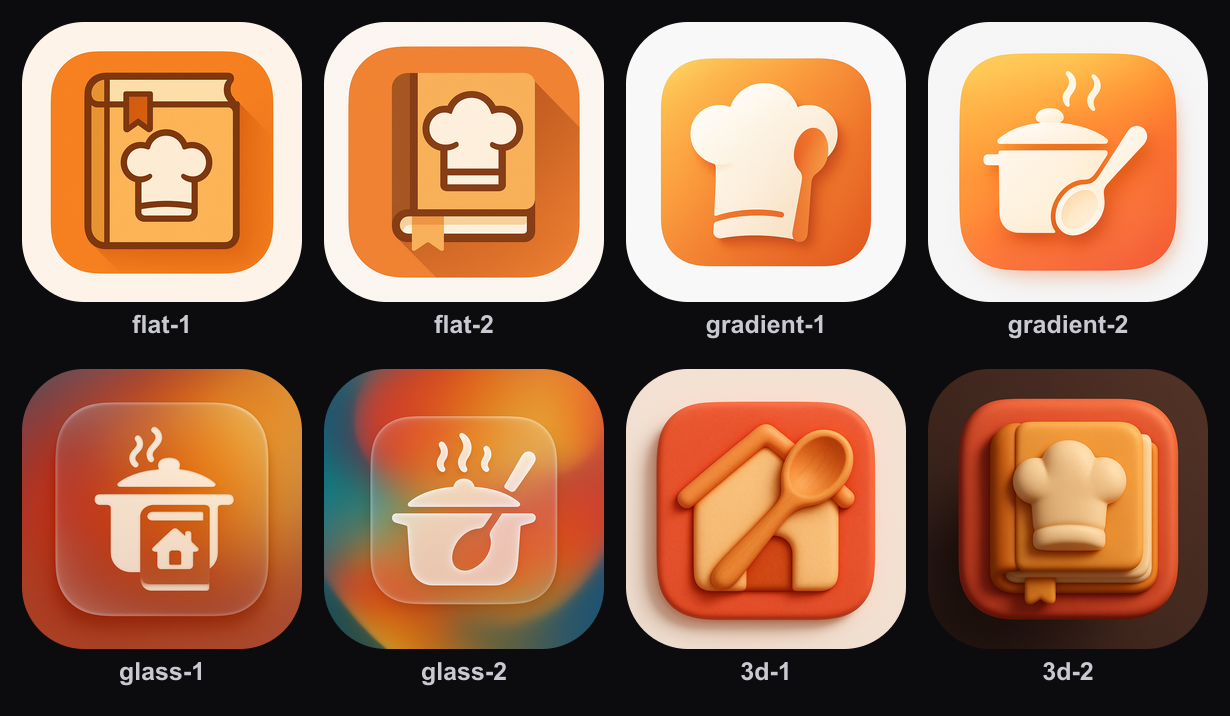
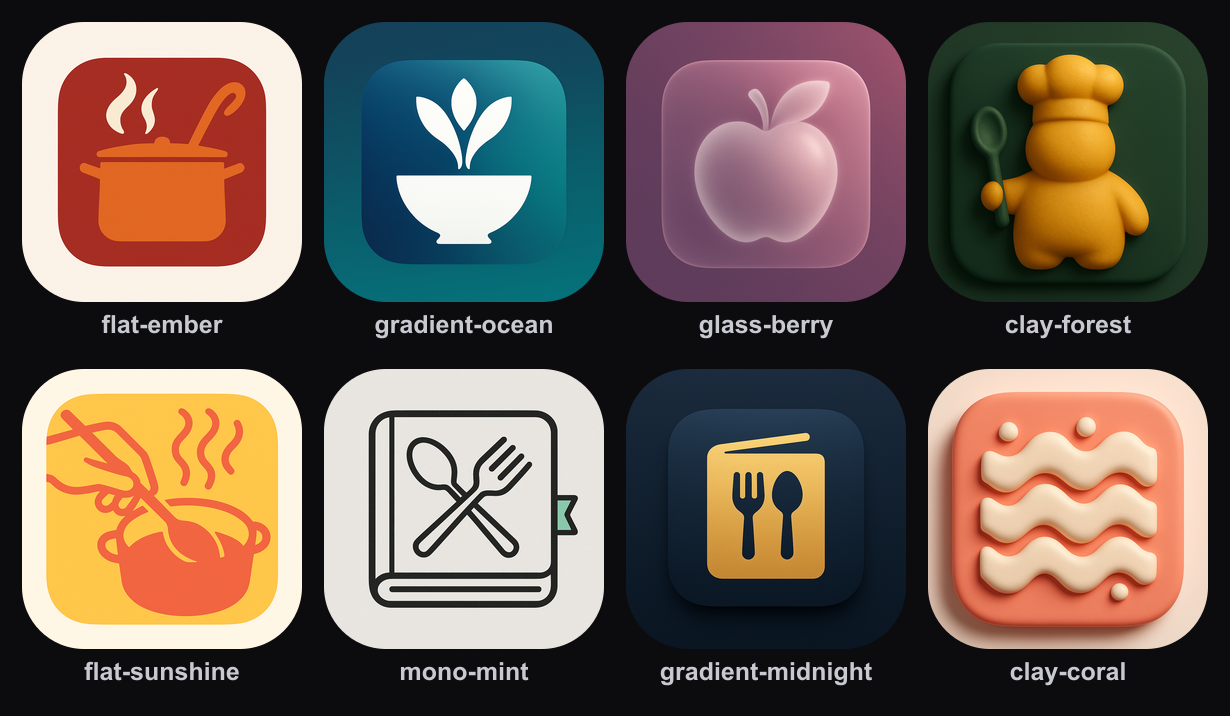
Vraie diversite : couleur + motif differents par variation
Avant : 4 "styles" (flat/gradient/glass/3d) redessinaient le MEME motif
et souvent la meme couleur (l'IA convergeait vers "livre de recette
orange" a chaque fois) -> peu de vrai choix.

Maintenant : 8 variations predefinies, chacune avec sa PROPRE palette de
couleur imposee ET son PROPRE angle creatif impose (objet litteral,
emblème abstrait, mascotte, silhouette, texture...). Le rendu (flat/
gradient/glass/clay) reste un axe mais n'est plus le seul qui varie.

- generate-icon.mjs : remplace STYLE_HINTS/--style par VARIATIONS
  (render+color+angle), --n = nombre total (cycle sur la liste),
  --only <label> pour une variation precise, --list pour les voir.
- README + skill + commande /icon + exemples mis a jour avec le
  nouveau rendu teste en live (8 icones vraiment differentes).

diff --git a/README.md b/README.md
@@ -1,8 +1,8 @@
 # ios-icon-generator 🎨
 
-**Génère des propositions d'icône d'app iOS à partir d'une simple description, via l'API OpenAI (`gpt-image-1`) — dans plusieurs styles, avec une planche-contact automatique.**
+**Génère des propositions d'icône d'app iOS à partir d'une simple description, via l'API OpenAI (`gpt-image-1`) — 8 couleurs ET 8 motifs vraiment différents, avec une planche-contact automatique.**
 
-Pas de mockup, pas de Photoshop, pas de designer à payer : une phrase en langage naturel entre, une image unique avec **toutes les propositions côte à côte** sort. Zéro dépendance pour la génération (Node 18+ suffit), une seule dépendance optionnelle (`sharp`) pour la planche-contact.
+Pas de mockup, pas de Photoshop, pas de designer à payer : une phrase en langage naturel entre, une image unique avec **8 propositions réellement distinctes** sort — pas 8 fois le même dessin redessiné dans un style différent. Zéro dépendance pour la génération (Node 18+ suffit), une seule dépendance optionnelle (`sharp`) pour la planche-contact.
 
 Disponible en **script CLI autonome** *et* en **skill/commande Claude Code** (`/icon`).
 
@@ -11,16 +11,16 @@ Disponible en **script CLI autonome** *et* en **skill/commande Claude Code** (`/
 ## Exemple réel — testé en live
 
 Prompt donné : `"app mobile de recettes de cuisine maison, chaleureuse et simple"`.
-Commande : `node scripts/generate-icon.mjs --prompt "..."` — par défaut, ça couvre **4 styles** (`flat`, `gradient`, `glass`, `3d`), 2 propositions chacun.
+Commande : `node scripts/generate-icon.mjs --prompt "..."` (aucun autre flag — 8 variations prédéfinies, chacune avec **sa propre palette de couleur ET son propre motif**).
 
 <p align="center">
-  <img src="examples/collage.png" width="720" alt="Planche-contact des 8 icônes générées">
+  <img src="examples/collage.png" width="720" alt="Planche-contact de 8 icônes vraiment différentes">
 </p>
 
-8 icônes, 4 styles, **une seule commande**, assemblées automatiquement en une seule image. Zoom sur une proposition :
+Marmite qui fume, bol + plante, pomme translucide, mascotte cuisinier, geste de cuisson, carnet + couverts, livre stylisé, texture de pâte — **8 idées différentes**, 8 palettes différentes, en une seule commande. Zoom sur une proposition :
 
 <p align="center">
-  <img src="examples/closeup-flat-1.png" width="180" alt="Gros plan sur une icône générée">
+  <img src="examples/closeup-clay-coral.png" width="180" alt="Gros plan sur une icône générée">
 </p>
 
 C'est exactement ce que produit le script — pas une maquette, un vrai appel à `gpt-image-1`.
@@ -62,28 +62,42 @@ node scripts/generate-icon.mjs --prompt "app de suivi de sport, énergique, bleu
 ```
 
 Ça écrit dans `./icons/` :
-- une icône PNG par style/proposition (`flat-1.png`, `gradient-2.png`, …)
+- une icône PNG par variation (`flat-ember.png`, `gradient-ocean.png`, …)
 - **`collage.png`** — toutes les propositions assemblées en une seule image, labellisées
 - `contact-sheet.html` — la même chose en HTML, à ouvrir dans un navigateur
+
+### Les 8 variations (couleur + motif, pas juste un style de rendu)
+
+| Label | Palette | Motif demandé à l'IA |
+|---|---|---|
+| `flat-ember` | rouge braise / orange brûlé | l'outil le plus emblématique de l'app, dessiné littéralement |
+| `gradient-ocean` | bleu océan → turquoise | un emblème géométrique abstrait qui capture le *ressenti* de l'app |
+| `glass-berry` | violet baie / rose | un motif inspiré de la nature lié au thème de l'app |
+| `clay-forest` | vert forêt / or moutarde | une mascotte simplifiée représentant l'app |
+| `flat-sunshine` | jaune soleil / corail | l'action centrale de l'app, comme symbole dynamique |
+| `mono-mint` | noir & blanc + accent menthe | un objet du quotidien réinterprété de façon inattendue |
+| `gradient-midnight` | bleu nuit / or | une silhouette forte représentant la valeur cœur de l'app |
+| `clay-coral` | corail / crème | un motif ou une texture abstraite liée au thème |
 
 ### Options
 
 | Flag | Défaut | Description |
 |---|---|---|
 | `--prompt`, `-p` | *(obligatoire)* | Description de l'app en langage naturel |
-| `--style` | `all` | `flat` \| `gradient` \| `glass` \| `3d` \| `all` (les 4) |
-| `--n` | `2` | Nombre de propositions **par style** |
+| `--n` | `8` | Nombre total d'icônes (cycle sur les 8 variations) |
+| `--only <label>` | — | Une seule variation précise (voir `--list`) |
+| `--list` | — | Affiche les 8 variations disponibles et quitte |
 | `--out` | `./icons` | Dossier de sortie |
 | `--size` | `1024x1024` | Taille de l'image |
 | `--quality` | `high` | `high` \| `medium` \| `low` |
 | `--no-collage` | — | Saute la planche-contact PNG (juste les icônes + le HTML) |
 
 ```bash
-# Un seul style, plus de variations
-node scripts/generate-icon.mjs --prompt "app de méditation, apaisante, violet" --style glass --n 4
+# Juste 3 icônes (les 3 premières variations de la liste)
+node scripts/generate-icon.mjs --prompt "app de méditation, apaisante" --n 3
 
-# Génération rapide/économique (1 seule image)
-node scripts/generate-icon.mjs --prompt "app de finance perso, sérieuse, vert" --style flat --n 1 --quality medium
+# Une seule variation précise, en qualité réduite (rapide/économique)
+node scripts/generate-icon.mjs --prompt "app de finance perso, sérieuse" --only mono-mint --quality medium
 ```
 
 ### Juste refaire le collage (sur un dossier d'icônes existant)
@@ -120,9 +134,12 @@ node generate-assets.mjs icon --src ./icons/flat-1.png --out ./assets/images
 
 - **`POST /v1/images/generations`**, modèle `gpt-image-1`, `background: "opaque"` forcé
   (Apple **refuse** la transparence sur l'icône App Store).
-- **Le prompt réel envoyé à l'IA** n'est pas ta phrase brute : il est enrichi en un vrai
-  brief de designer (composition carrée, un seul motif centré, **aucun texte/lettre**,
-  couleurs franches, lisible en petit) — voir `buildPrompt()` dans
+- **Le prompt réel envoyé à l'IA** n'est pas ta phrase brute : chaque variation lui ajoute
+  une **palette de couleur imposée** et un **angle créatif imposé** (quel motif dessiner —
+  objet littéral, emblème abstrait, mascotte, silhouette…), en plus des règles de base
+  (composition carrée, un seul motif centré, **aucun texte/lettre**, lisible en petit).
+  C'est ce qui évite le piège du « même dessin, juste redessiné dans un style différent » —
+  voir `VARIATIONS` et `buildPrompt()` dans
   [`scripts/generate-icon.mjs`](scripts/generate-icon.mjs).
 - **Le collage** (`scripts/make-collage.mjs`) redimensionne chaque icône, l'arrondit
   (masque SVG), et compose le tout sur un seul canvas avec légendes — exporté aussi comme

diff --git a/.claude/skills/ios-icon-generator/SKILL.md b/.claude/skills/ios-icon-generator/SKILL.md
@@ -2,22 +2,25 @@
 name: ios-icon-generator
 description: >
   Genere plusieurs propositions d'icone d'app iOS a partir d'une description en langage
-  naturel, via OpenAI (gpt-image-1), dans 4 styles differents, avec une planche-contact
-  (collage) automatique en une seule image. Charge ce skill des qu'on parle de
-  creer/generer une icone d'app, un logo d'app, un app icon, ou dès que l'utilisateur
-  tape /icon.
+  naturel, via OpenAI (gpt-image-1) — 8 variations avec chacune sa PROPRE palette de
+  couleur ET son propre motif (pas juste un style de rendu different), avec une
+  planche-contact (collage) automatique en une seule image. Charge ce skill des qu'on
+  parle de creer/generer une icone d'app, un logo d'app, un app icon, ou dès que
+  l'utilisateur tape /icon.
 ---
 
 # ios-icon-generator — icone d'app iOS par IA
 
 ## Ce que fait ce skill
 
-A partir d'**une phrase** decrivant l'app ("app de recettes de cuisine, chaleureuse,
-orange"), il genere **plusieurs propositions d'icone carree (1024×1024)**, prêtes pour
-l'App Store, via un vrai appel a l'API OpenAI (`gpt-image-1`) — pas un mockup, une vraie
-image generee. Par defaut il couvre **4 styles** (`flat`, `gradient`, `glass`, `3d`) pour
-donner un vrai choix, puis assemble tout dans **une seule image de planche-contact**
-(`collage.png`) facile a montrer/comparer d'un coup d'œil.
+A partir d'**une phrase** decrivant l'app ("app de recettes de cuisine, chaleureuse"),
+il genere **8 propositions d'icone carree (1024×1024)**, prêtes pour l'App Store, via un
+vrai appel a l'API OpenAI (`gpt-image-1`) — pas un mockup, une vraie image generee.
+Chaque proposition a sa **propre palette de couleur** ET son **propre motif/angle
+creatif** (objet litteral, emblème abstrait, mascotte, silhouette, texture…) — le but est
+une vraie diversite, pas 8 fois le meme dessin redessine dans un style different. Le tout
+est assemble dans **une seule image de planche-contact** (`collage.png`) facile a
+montrer/comparer d'un coup d'œil.
 
 ## Prerequis
 
@@ -43,7 +46,8 @@ meme les icones (juste pas le collage PNG) et le dit clairement.
    ```
    node scripts/generate-icon.mjs --prompt "<description>"
    ```
-   (par defaut : les 4 styles, 2 propositions chacun = 8 icones + 1 collage).
+   (par defaut : les 8 variations couleur+motif = 8 icones + 1 collage. `--n 3` pour
+   moins, `--only <label>` pour une seule variation precise, `--list` pour voir les 8).
 4. **Montre le rendu** : affiche `icons/collage.png` a l'utilisateur (une seule image,
    toutes les propositions labellisees par style).
 5. **Laisse l'utilisateur choisir** sa preferee — une seule question, pas dix.

diff --git a/.claude/commands/icon.md b/.claude/commands/icon.md
@@ -9,9 +9,9 @@ Charge et applique le skill `ios-icon-generator`.
 2. Verifie qu'une cle `OPENAI_API_KEY` est presente dans `.env` a la racine de ce repo.
    Si absente, guide l'utilisateur pour en recuperer une (une seule action a la fois)
    plutot que d'echouer sans explication.
-3. Lance `node scripts/generate-icon.mjs --prompt "<description>"` (par defaut : 4 styles
-   x 2 = 8 icones + 1 planche-contact ; ajoute `--style <flat|gradient|glass|3d>` si
-   l'utilisateur veut un seul style).
+3. Lance `node scripts/generate-icon.mjs --prompt "<description>"` (par defaut : 8
+   variations couleur+motif differentes + 1 planche-contact ; ajoute `--n 3` pour moins,
+   ou `--only <label>` pour une seule variation precise — voir `--list`).
 4. Montre le resultat : affiche `icons/collage.png` (toutes les propositions en une
    image) a l'utilisateur.
 5. Demande laquelle il prefere — une seule question.
